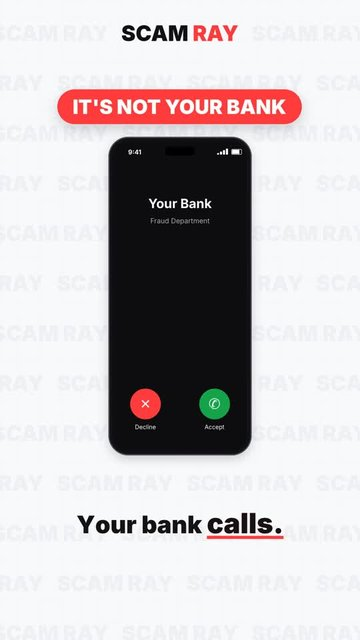
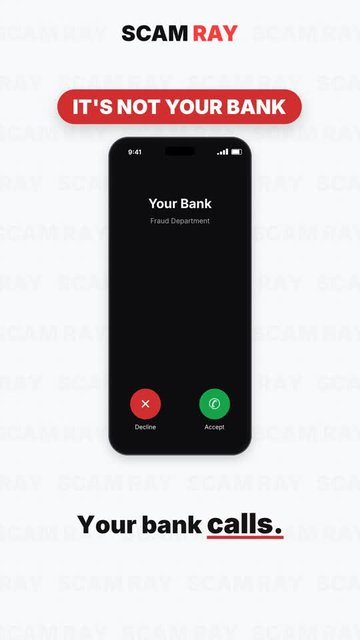
Thumbnails: frames with the deeper red and lighter pattern
Claude-Session: https://claude.ai/code/session_01TRqGuSRBe4zavw1uNWDdjy

Changed region(s): [[0.1528, 0.125, 0.8556, 0.2188], [0.5806, 0.8125, 0.7944, 0.8438], [0.3667, 0.5938, 0.4583, 0.6562]]

diff --git a/index.html b/index.html
@@ -1,7 +1,7 @@
 <!doctype html>
 <html lang="en"><head><meta charset="utf-8"><meta name="viewport" content="width=device-width,initial-scale=1">
 <title>Scam Ray: scams explained in under a minute</title><meta name="description" content="Scam Ray takes one real scam apart in under a minute: what it looks like, the red flag, and what to do instead.">
-<link rel="icon" href="assets/favicon-v3.png" sizes="48x48"><link rel="icon" href="assets/favicon-v3.svg" type="image/svg+xml"><link rel="apple-touch-icon" href="assets/apple-touch-icon-v3.png"><link rel="stylesheet" href="style.css?v=1fc52d46"><script src="assets/site.js?v=558521ad" defer></script></head>
+<link rel="icon" href="assets/favicon-v3.png" sizes="48x48"><link rel="icon" href="assets/favicon-v3.svg" type="image/svg+xml"><link rel="apple-touch-icon" href="assets/apple-touch-icon-v3.png"><link rel="stylesheet" href="style.css?v=1fc52d46"><script src="assets/site.js?v=a46e2594" defer></script></head>
 <body>
 <header class="site-head"><div class="wrap"><nav class="nav"><a class="logo" href="index.html">SCAM <span>RAY</span></a>
 <div class="links"><a href="scams.html">Scams</a><a href="about.html">About</a>

diff --git a/scams.html b/scams.html
@@ -1,7 +1,7 @@
 <!doctype html>
 <html lang="en"><head><meta charset="utf-8"><meta name="viewport" content="width=device-width,initial-scale=1">
 <title>All scams | Scam Ray</title><meta name="description" content="Every scam Scam Ray has broken down, sortable and filterable.">
-<link rel="icon" href="assets/favicon-v3.png" sizes="48x48"><link rel="icon" href="assets/favicon-v3.svg" type="image/svg+xml"><link rel="apple-touch-icon" href="assets/apple-touch-icon-v3.png"><link rel="stylesheet" href="style.css?v=1fc52d46"><script src="assets/site.js?v=558521ad" defer></script></head>
+<link rel="icon" href="assets/favicon-v3.png" sizes="48x48"><link rel="icon" href="assets/favicon-v3.svg" type="image/svg+xml"><link rel="apple-touch-icon" href="assets/apple-touch-icon-v3.png"><link rel="stylesheet" href="style.css?v=1fc52d46"><script src="assets/site.js?v=a46e2594" defer></script></head>
 <body>
 <header class="site-head"><div class="wrap"><nav class="nav"><a class="logo" href="index.html">SCAM <span>RAY</span></a>
 <div class="links"><a href="scams.html" aria-current="page">Scams</a><a href="about.html">About</a>

diff --git a/about.html b/about.html
@@ -1,7 +1,7 @@
 <!doctype html>
 <html lang="en"><head><meta charset="utf-8"><meta name="viewport" content="width=device-width,initial-scale=1">
 <title>About | Scam Ray</title><meta name="description" content="Who makes Scam Ray and why.">
-<link rel="icon" href="assets/favicon-v3.png" sizes="48x48"><link rel="icon" href="assets/favicon-v3.svg" type="image/svg+xml"><link rel="apple-touch-icon" href="assets/apple-touch-icon-v3.png"><link rel="stylesheet" href="style.css?v=1fc52d46"><script src="assets/site.js?v=558521ad" defer></script></head>
+<link rel="icon" href="assets/favicon-v3.png" sizes="48x48"><link rel="icon" href="assets/favicon-v3.svg" type="image/svg+xml"><link rel="apple-touch-icon" href="assets/apple-touch-icon-v3.png"><link rel="stylesheet" href="style.css?v=1fc52d46"><script src="assets/site.js?v=a46e2594" defer></script></head>
 <body>
 <header class="site-head"><div class="wrap"><nav class="nav"><a class="logo" href="index.html">SCAM <span>RAY</span></a>
 <div class="links"><a href="scams.html">Scams</a><a href="about.html" aria-current="page">About</a>

diff --git a/terms.html b/terms.html
@@ -1,7 +1,7 @@
 <!doctype html>
 <html lang="en"><head><meta charset="utf-8"><meta name="viewport" content="width=device-width,initial-scale=1">
 <title>Terms of Service | Scam Ray</title><meta name="description" content="Scam Ray's Terms of Service.">
-<link rel="icon" href="assets/favicon-v3.png" sizes="48x48"><link rel="icon" href="assets/favicon-v3.svg" type="image/svg+xml"><link rel="apple-touch-icon" href="assets/apple-touch-icon-v3.png"><link rel="stylesheet" href="style.css?v=1fc52d46"><script src="assets/site.js?v=558521ad" defer></script></head>
+<link rel="icon" href="assets/favicon-v3.png" sizes="48x48"><link rel="icon" href="assets/favicon-v3.svg" type="image/svg+xml"><link rel="apple-touch-icon" href="assets/apple-touch-icon-v3.png"><link rel="stylesheet" href="style.css?v=1fc52d46"><script src="assets/site.js?v=a46e2594" defer></script></head>
 <body>
 <header class="site-head"><div class="wrap"><nav class="nav"><a class="logo" href="index.html">SCAM <span>RAY</span></a>
 <div class="links"><a href="scams.html">Scams</a><a href="about.html">About</a>

diff --git a/privacy.html b/privacy.html
@@ -1,7 +1,7 @@
 <!doctype html>
 <html lang="en"><head><meta charset="utf-8"><meta name="viewport" content="width=device-width,initial-scale=1">
 <title>Privacy Policy | Scam Ray</title><meta name="description" content="Scam Ray's Privacy Policy.">
-<link rel="icon" href="assets/favicon-v3.png" sizes="48x48"><link rel="icon" href="assets/favicon-v3.svg" type="image/svg+xml"><link rel="apple-touch-icon" href="assets/apple-touch-icon-v3.png"><link rel="stylesheet" href="style.css?v=1fc52d46"><script src="assets/site.js?v=558521ad" defer></script></head>
+<link rel="icon" href="assets/favicon-v3.png" sizes="48x48"><link rel="icon" href="assets/favicon-v3.svg" type="image/svg+xml"><link rel="apple-touch-icon" href="assets/apple-touch-icon-v3.png"><link rel="stylesheet" href="style.css?v=1fc52d46"><script src="assets/site.js?v=a46e2594" defer></script></head>
 <body>
 <header class="site-head"><div class="wrap"><nav class="nav"><a class="logo" href="index.html">SCAM <span>RAY</span></a>
 <div class="links"><a href="scams.html">Scams</a><a href="about.html">About</a>

diff --git a/assets/site.js b/assets/site.js
@@ -6,7 +6,7 @@ const YT = "https://www.youtube.com/@scamray";
 function card(s) {
   const href = s.url || YT;
   const tags = [s.via, s.type, s.after].map(t => `<span>${t}</span>`).join("");
-  return `<a class="vcard" href="${href}"><div class="thumb" style="background-image:url(assets/thumbs/${s.id}.jpg?v=white1)"></div>
+  return `<a class="vcard" href="${href}"><div class="thumb" style="background-image:url(assets/thumbs/${s.id}.jpg?v=white2)"></div>
 <h3>${s.title}</h3><p>${s.blurb}</p><div class="tags">${tags}</div></a>`;
 }
 // newest first: by posted date when posted, otherwise by planned order
